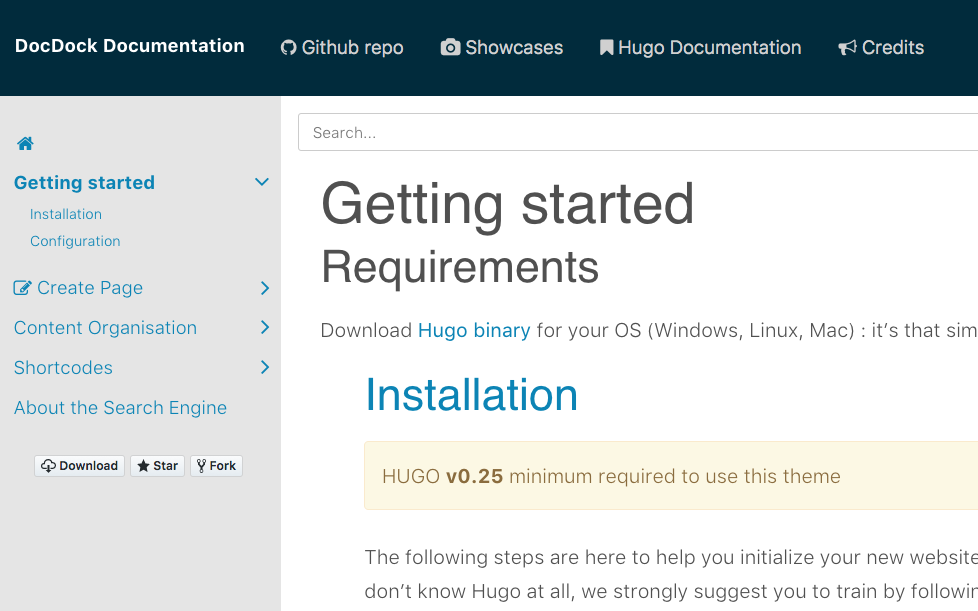
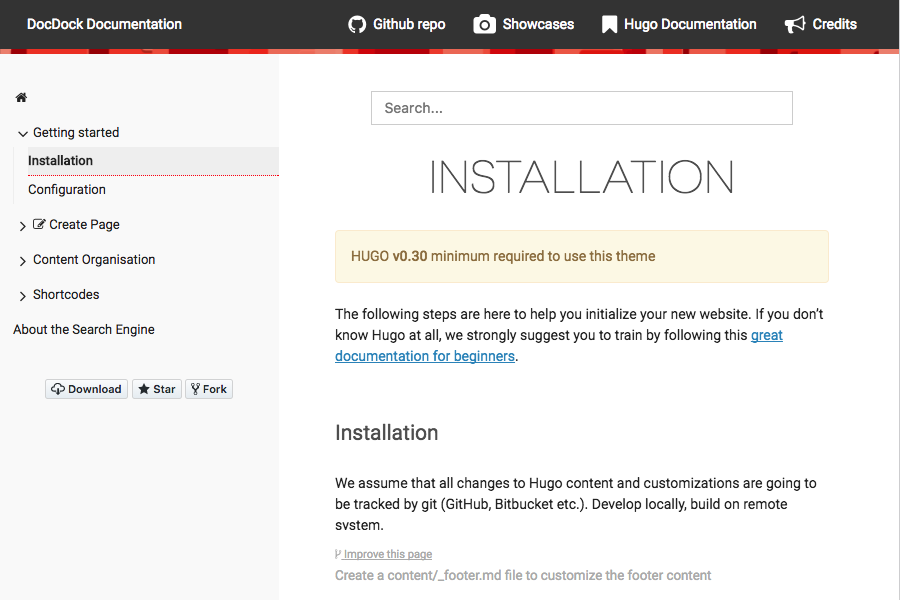
final setting for me to use this theme

diff --git a/layouts/partials/custom-head.html b/layouts/partials/custom-head.html
@@ -8,6 +8,3 @@
   ga('send', 'pageview');
 
 </script>
-
-
-<!-- my google analystic ID -->

diff --git a/content/_index.md b/content/_index.md
@@ -1,20 +1,18 @@
 +++
 title = "DocDock Theme for Hugo"
 description = ""
-date = "2017-04-24T18:36:24+02:00"
-
 +++
 
 # Hugo docDock theme
 [Hugo-theme-docdock {{%icon fa-github%}}](https://github.com/vjeantet/hugo-theme-docdock) is a theme for Hugo, a fast and modern static website engine written in Go. Hugo is often used for blogs, **this theme is fully designed for documentation.**
 
-This theme is a partial porting of the [Learn theme of matcornic {{%icon fa-github%}}](https://github.com/matcornic/hugo-theme-learn).
+This theme is a partial porting of the [Learn theme of matcornic {{%icon fa-github%}}](https://github.com/matcornic/hugo-theme-learn). and its default style "flex" comes from [facette.io](https://github.com/facette)'s documentation.
 
 {{%panel%}}docDock works with a "page tree structure" to organize content : All contents are pages, which belong to other pages. [read more about this]({{%relref "content-organisation/_index.md"%}}) {{%/panel%}}
 
 ## Main features
 
-* [Search]({{%relref "search/_index.md" %}})
+* [Automatic Search]({{%relref "search/_index.md" %}})
 * **Unlimited menu levels**
 * [Generate RevealJS presentation]({{%relref "page-slide.md"%}}) from markdown (embededed or fullscreen page)
 * Automatic next/prev buttons to navigate through menu entries
@@ -28,13 +26,13 @@ This theme is a partial porting of the [Learn theme of matcornic {{%icon fa-gith
 
 
 
+Style "Flex" (default)
+
+![](style-flex.png?classes=border,shadow)
+
 Style "Original"
 
-![](https://raw.githubusercontent.com/vjeantet/hugo-theme-docdock/master/images/tn.png?width=33pc&classes=border,shadow)
-
-Style "Flex"
-
-![](style-flexfull.png?width=33pc&classes=border,shadow)
+![](style-original.png?classes=border,shadow)
 
 ## Contribute to this documentation
 Feel free to update this content, just click the **Edit this page** link displayed on top right of each page, and pullrequest it

diff --git a/content/content-organisation/customize-style/_index.md b/content/content-organisation/customize-style/_index.md
@@ -8,20 +8,46 @@ You can change the style and behavior of the theme without touching it.
 * inject your own html,  css or js into the page
 * overide existing css or js with your own files
 
-## Inject your HTML
+{{%notice note %}}
+No needs to copy the entire theme to customize some parts 
+Bellow are solutions to avoid copying the entire theme into your own codebase.
+{{%/notice%}}
 
-### into the \<head\> part of each page :
+## Add custom CSS and JS or HTML into the \<head\> part of each page :
 
-Create a `custom-head.html` into a `layouts/partials` folder next to the content folder
+Create a custom header partial `layouts/partials/custom-head.html` 
 
 > * content/
 > * layouts/
 >   * partials/
 >      * custom-head.html
 
+write your own content like (an example from @nzbart):
+```html
+<link rel="stylesheet" href="/css/custom.css">
+<script src="/js/custom.js"></script>
+```
+
+Then overrode the style your want to change in `static/css/custom.css` (in this case, to avoid altering the casing of titles):
+```css
+h2 {
+    text-transform: none;
+}
+```
+
+And executed some additional JavaScript from `static/js/custom.js` (note that jQuery is already loaded by the theme):
+```javascript
+function tweakPage() {
+    // make some changes here
+}
+
+$(tweakPage)
+```
+
+
 now feel free to add the JS, CSS, HTML code you want :)
 
-### at the end of the body part of each page :
+## Add custom HTML at the end of the body part of each page :
 
 Create a `custom-footer.html` into a `layouts/partials` folder next to the content folder
 
@@ -32,7 +58,7 @@ Create a `custom-footer.html` into a `layouts/partials` folder next to the conte
 
 now feel free to add the JS, CSS, HTML code you want :)
 
-## overide existing CSS or JS
+## Overide existing CSS or JS
 
 Create the matching file in your static folder, hugo will use yours instead of the theme's one.
 Example : 

diff --git a/content/credits.md b/content/credits.md
@@ -5,16 +5,26 @@ description = "contributors and packages used by hugo-theme-docdock"
 
 
 ## github contributors
-{{%ghcontributors "https://api.github.com/repos/hyunyoung2/example-hugo-site/contributors?per_page=100" %}}
+{{%ghcontributors "https://api.github.com/repos/vjeantet/hugo-theme-docdock/contributors?per_page=100" %}}
 
-### Other contributors
+### Other contribution
 <div class="ghContributors">
-    <div>
-      <img src="https://avatars2.githubusercontent.com/hyunyoung2" class="inline" width="32" height="32" style="height: 32px;height: 32px;margin-bottom:.25em; vertical-align:middle; ">
-      <label>@<a href="https://github.com/hyunyoung2">hyunyoung2</a></label>
-      <span class="contributions">supports and advices</span>
-    </div>
+
+<div>
+<img src="https://avatars2.githubusercontent.com/u/394382?v=3" class="inline" width="32" height="32" style="height: 32px;height: 32px;margin-bottom:.25em; vertical-align:middle; ">
+<label>@<a href="https://github.com/bep">bep</a></label>
+<span class="contributions">supports and advices</span>
 </div>
+
+<div>
+<img src="https://avatars1.githubusercontent.com/u/959400?s=200&v=4" class="inline" width="32" height="32" style="height: 32px;height: 32px;margin-bottom:.25em; vertical-align:middle; ">
+<label>@<a href="https://github.com/facette">facette.io</a></label>
+<span class="contributions">Flex style based on facette documentation theme, <br>Thanks to @vbatoufflet</span>
+</div>
+
+</div>
+
+
 
 ## Packages and libraries
 * [Bootstrap](http://getbootstrap.com) - front-end framework

diff --git a/content/shortcodes/children/_index.md b/content/shortcodes/children/_index.md
@@ -11,7 +11,7 @@ Use the children shortcode to list the child pages of a page and the further des
 | Parameter | Default | Description |
 |:--|:--|:--|
 | page | _current_ | Specify the page name (section name) to display children for |
-| style | "li" | Choose the style used to display descendants. It could be any HTML tag name |
+| style | "li" | Choose the style used to display descendants. It could be any HTML tag name, use "card" to display children pages as cards |
 | showhidden | "false" | When true, child pages hidden from the menu will be displayed |
 | description  | "false" | Allows you to include a short text under each page in the list.<br/>when no description exists for the page, children shortcode takes the first 70 words of your content. [read more info about summaries on gohugo.io](https://gohugo.io/content/summaries/)  |
 | depth | 1 | Enter a number to specify the depth of descendants to display. For example, if the value is 2, the shortcode will display 2 levels of child pages. {{%alert success%}}**Tips:** set 999 to get all descendants{{%/alert%}}|
@@ -41,8 +41,6 @@ Use the children shortcode to list the child pages of a page and the further des
 
 {{% children style="div" depth="999" %}}
 
+	{{%/* children style="card" depth="2"  description="true" */%}}
 
-
-
-
-
+{{% children style="card" depth="2" description="true" %}}

diff --git a/content/shortcodes/revealjs.md b/content/shortcodes/revealjs.md
@@ -28,6 +28,7 @@ Read more on [revealjs github repo](https://github.com/hakimel/reveal.js/#markdo
 
 ## Demo
 
+
 {{<revealjs theme="moon" progress="true">}}
 
 # In the morning
@@ -69,6 +70,50 @@ ___
 
 ## Source :
 
-* [{{%icon "sunglasses" %}} click here to view raw content](https://raw.githubusercontent.com/vjeantet/hugo-theme-docdock/master/exampleSite/content/shortcodes/revealjs.md)
-editURL
+{{%expand "Show code ..."%}}
 
+```
+{{</*revealjs theme="moon" progress="true"*/>}}
+
+# In the morning
+
+___
+
+
+## Getting up
+
+- Turn off alarm
+- Get out of bed
+
+___
+
+## Breakfast
+
+- Eat eggs
+- Drink coffee
+
+---
+
+# In the evening
+
+___
+
+## Dinner
+
+- Eat spaghetti
+- Drink wine
+
+___
+
+## Going to sleep
+
+- Get in bed
+- Count sheep
+
+{{</*revealjs*/>}}
+
+```
+
+{{%/expand%}}
+
+* [{{%icon "sunglasses" %}} click here to view raw content](https://raw.githubusercontent.com/vjeantet/hugo-theme-docdock/master/exampleSite/content/shortcodes/revealjs.md)

diff --git a/content/shortcodes/excerpt-include.md b/content/shortcodes/excerpt-include.md
@@ -20,3 +20,6 @@ The paragraph below shows an example of an Excerpt Include shortcode, containing
 	{{%/*excerpt-include filename="shortcodes/excerpt.md" panel="From excerpt page" /*/%}}
 
 {{%excerpt-include filename="shortcodes/excerpt.md" panel="From excerpt page" /%}}
+ 
+> Don't create an excerpt file in the ```/layouts/shortcodes/``` folder. 
+> In this example, ```shortcodes/filename.md``` is part of the ```exampleSite/content``` folder, and ```shortcodes``` is just a path in the ```/content```.

diff --git a/content/getting-start/installation.md b/content/getting-start/installation.md
@@ -4,7 +4,7 @@ description = ""
 weight = 1
 +++
 
-{{% alert theme="warning" %}}HUGO **v0.30** minimum required to use this theme{{%/alert%}}
+{{% alert theme="warning" %}}HUGO **v0.32** minimum required to use this theme{{%/alert%}}
 
 The following steps are here to help you initialize your new website. If you don’t know Hugo at all, we strongly suggest you to train by following this [great documentation for beginners](https://gohugo.io/overview/quickstart/).
 <!--more-->

diff --git a/content/create-page/_index.md b/content/create-page/_index.md
@@ -8,7 +8,7 @@ lastmodifierdisplayname = "Valere JEANTET"
 lastmodifieremail = "valere.jeantet@gmail.com"
 tags = ["tag1","tag2"]
 weight = 10
-pre ="<i class='fa fa-edit'></i> "
+pre ="<i class='fa fa-edit' ></i> "
 
 +++
 

diff --git a/content/shortcodes/_index.md b/content/shortcodes/_index.md
@@ -7,4 +7,4 @@ weight = 30
 
 A bunch of Shortcodes are available with this theme :
 
-{{%children style="h2" description="true" %}}
+{{%children style="card" description="true" %}}
